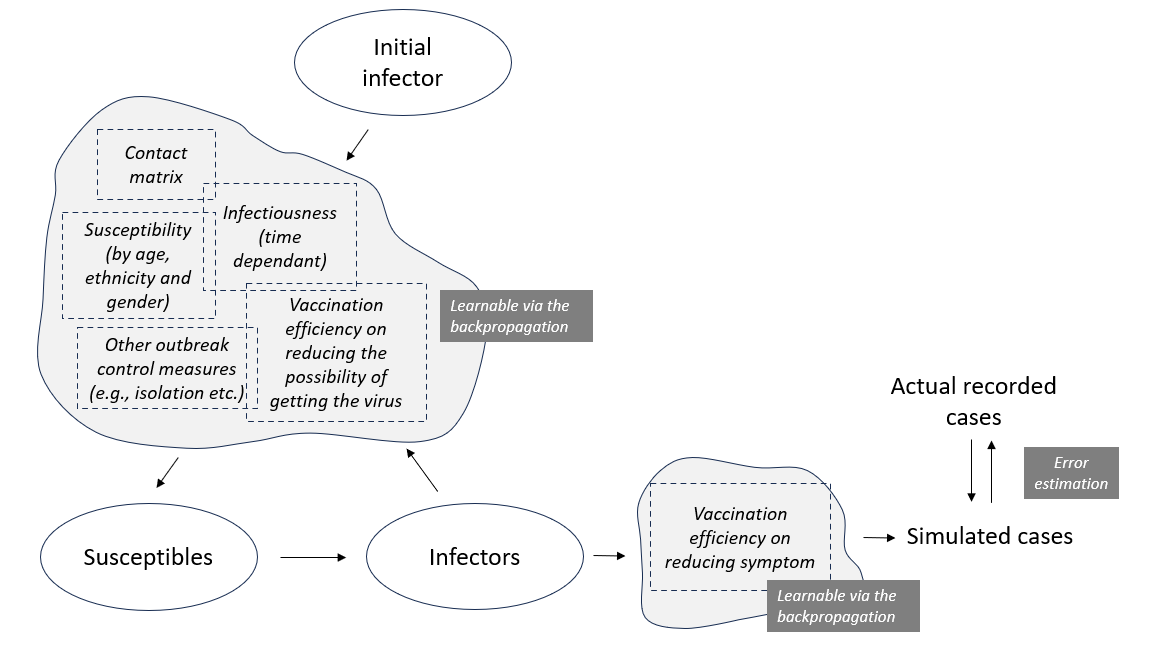
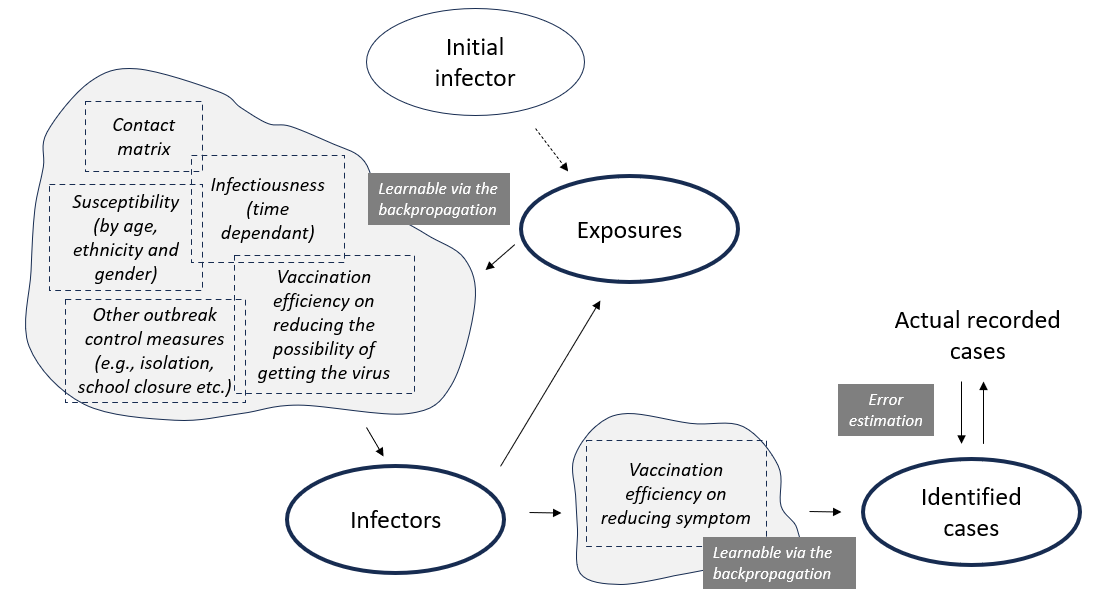
add school closure

diff --git a/model/abm.py b/model/abm.py
@@ -286,6 +286,7 @@ class GradABM:
         total_timesteps,
         debug: bool = False,
         save_records: bool = False,
+        print_step_info: bool = False,
     ):
         if t == 0:
             self.get_params(param_info, param_t)
@@ -329,72 +330,18 @@ class GradABM:
             t,
         )
 
-        """
-        if 165400 in self.agents_area[death_indices]:
-            import numpy
-
-            agent_loc = numpy.where(
-                numpy.array(self.agents_area[death_indices].tolist()) == 165400
-            )[0][0]
+        if print_step_info:
             print(
-                self.agents_ethnicity[death_indices[agent_loc]],
-                self.agents_ages[death_indices[agent_loc]],
+                t,
+                f"exposed: {self.current_stages.tolist().count(1.0)} |",
+                f"infected: {self.current_stages.tolist().count(2.0)} |",
+                f"newly exposed: {int(newly_exposed_today.sum().item())} |",
+                f"potential newly exposed: {int(potentially_exposed_today.sum().item())} |",
+                # f"infection_ratio_distribution_percentage: {infection_ratio_distribution_percentage}",
+                f"target: {int(target)}",
             )
+            # print(f" - Memory: {round(torch.cuda.memory_allocated(0) / (1024**3), 3) } Gb")
 
-        print(
-            t,
-            "165400: ",
-            165400 in self.agents_area[death_indices],
-            "147200: ",
-            147200 in self.agents_area[death_indices],
-        )
-        """
-
-        print(
-            t,
-            f"exposed: {self.current_stages.tolist().count(1.0)} |",
-            f"infected: {self.current_stages.tolist().count(2.0)} |",
-            f"newly exposed: {int(newly_exposed_today.sum().item())} |",
-            f"potential newly exposed: {int(potentially_exposed_today.sum().item())} |",
-            # f"infection_ratio_distribution_percentage: {infection_ratio_distribution_percentage}",
-            f"target: {int(target)}",
-        )
-
-        """
-        x = self.current_stages.cpu().detach().numpy()
-        from collections import Counter
-
-        import numpy as np
-
-        x_index = np.where(x == 2.0)[0]
-        age_distribution_percentage = {
-            value: count / len(self.agents_ages[x_index]) * 100
-            for value, count in Counter(self.agents_ages[x_index].tolist()).items()
-        }
-        age_distribution_percentage = {
-            key: round(value, 2) for key, value in sorted(age_distribution_percentage.items())
-        }
-        ethnicity_distribution_percentage = {
-            value: count / len(self.agents_ethnicity[x_index]) * 100
-            for value, count in Counter(self.agents_ethnicity[x_index].tolist()).items()
-        }
-        ethnicity_distribution_percentage = {
-            key: round(value, 2)
-            for key, value in sorted(ethnicity_distribution_percentage.items())
-        }
-        print(f"    ages: {age_distribution_percentage}")
-        print(f"    ethnicity: {ethnicity_distribution_percentage}")
-
-        counter = Counter(self.all_edgelist[0, :].tolist())
-        # x_id = self.agents_id[x_index]
-        # yy = self.all_edgelist[0, :].tolist()
-        occurrences = {}
-        for value in x_index:
-            occurrences[value] = counter[value]
-        values = occurrences.values()
-        print(f"    Mean value: {sum(list(values)) / len(values)}")
-        """
-        # print(t, target)
         stage_records = None
         if save_records:
             stage_records = shallow_copy(self.current_stages.tolist())
@@ -403,10 +350,6 @@ class GradABM:
             self.print_debug_info(
                 self.current_stages, self.agents_next_stage_times, newly_exposed_today, target, t
             )
-
-        # get next stages without updating yet the current_stages
-        if t == 3:
-            x = 1
 
         next_stages = self.DPM.update_current_stage(
             newly_exposed_today,
@@ -477,6 +420,7 @@ def forward_abm(param_values_all, param_info, abm, training_num_steps, save_reco
             training_num_steps,
             debug=False,
             save_records=save_records,
+            print_step_info=True,
         )
         pred_t = pred_t.type(torch.float64)
         predictions.append(pred_t.to(DEVICE))

diff --git a/model/infection_network.py b/model/infection_network.py
@@ -1,6 +1,10 @@
 from logging import getLogger
 from random import uniform as random_uniform
 
+from numpy import intersect1d as numpy_intersect1d
+from numpy import isin as numpy_isin
+from numpy import ones as numpy_ones
+from numpy import where as numpy_where
 from torch import gather as torch_gather
 from torch import manual_seed as torch_seed
 from torch import nonzero as torch_nonzero
@@ -10,10 +14,36 @@ from torch import tensor as torch_tensor
 from torch import zeros_like as torch_zeros_like
 from torch_geometric.nn import MessagePassing
 
+from input import LOC_INDEX
 from model import DEVICE, TORCH_SEED_NUM
 from utils.utils import create_random_seed
 
 logger = getLogger()
+
+
+def school_closure(infected_idx, edge_attr, school_closure_cfg):
+    school_closure_sf = numpy_ones(len(infected_idx))
+
+    if not school_closure_cfg["enable"]:
+        return torch_tensor(school_closure_sf).to(DEVICE)
+
+    infected_idx_index = numpy_where(infected_idx.cpu().detach().numpy() == True)[0]
+
+    if len(infected_idx_index) > 0:
+        school_index = numpy_where(edge_attr[0, :].cpu().detach().numpy() == LOC_INDEX["school"])[
+            0
+        ]
+
+        overlap_index = numpy_intersect1d(infected_idx_index, school_index)
+        schools_to_shutdown = edge_attr[2, :][overlap_index].unique().cpu().detach()
+
+        potential_indices = numpy_where(
+            numpy_isin(edge_attr[2].cpu().detach().numpy(), schools_to_shutdown)
+        )[0]
+        schools_to_shutdown_indices = numpy_intersect1d(school_index, potential_indices)
+        school_closure_sf[schools_to_shutdown_indices] *= school_closure_cfg["scaling_factor"]
+
+    return torch_tensor(school_closure_sf).to(DEVICE)
 
 
 def infected_case_isolation(
@@ -136,6 +166,9 @@ def lam(
         t,
     )
 
+    # Shutdown school
+    school_closure_sf = school_closure(infected_idx, edge_attr, outbreak_ctl_cfg["school_closure"])
+
     edge_network_numbers = edge_attr[
         0, :
     ]  # to account for the fact that mean interactions start at 4th position of x
@@ -146,7 +179,9 @@ def lam(
     else:
         R = 1.0
 
-    res = R * S_A_s * A_s_i * B_n * integrals * isolated_sf / I_bar  # Edge attribute 1 is B_n
+    res = (
+        R * S_A_s * A_s_i * B_n * integrals * isolated_sf * school_closure_sf / I_bar
+    )  # Edge attribute 1 is B_n
 
     # print(t, integrals[infected_idx].sum(), res.sum())
 

diff --git a/model/inputs.py b/model/inputs.py
@@ -129,7 +129,10 @@ def agent_interaction_wrapper(
 
 
 def create_interactions(
-    interaction_cfg: dict, interaction_graph_path: str, num_agents: int
+    interaction_cfg: dict,
+    interaction_graph_path: str,
+    num_agents: int,
+    interaction_ratio: float,
 ) -> dict:
     """Obtain interaction networks
 
@@ -183,6 +186,8 @@ def create_interactions(
     if interaction_graph_path.endswith("parquet"):
         create_bidirection = False
         edges_mean_interaction_cfg = pandas_read_parquet(interaction_graph_path)
+
+    edges_mean_interaction_cfg = edges_mean_interaction_cfg.sample(frac=interaction_ratio)
 
     counts_df = edges_mean_interaction_cfg.groupby("id_x")["id_y"].nunique().reset_index()
     counts_df.columns = ["id_x", "count_of_id_y"]
@@ -243,23 +248,25 @@ def init_interaction_graph(
             (random_network_edgelist_forward, random_network_edgelist_backward)
         )
     else:
-        random_network_edge_all = torch_tensor(interaction_graph_cfg[:, 0:3]).t().long()
+        random_network_edge_all = torch_tensor(interaction_graph_cfg[:, 0:4]).t().long()
 
     random_network_edgelist = random_network_edge_all[0:2, :]
 
     random_network_edgeattr_type = random_network_edge_all[2, :]
 
+    random_network_edgeattr_venue = random_network_edge_all[3, :]
+
     random_network_edgeattr_B_n = [
         agents_mean_interactions_bn[key] for key in random_network_edgeattr_type.tolist()
     ]
 
-    random_network_edgeattr_B_n = torch_tensor(random_network_edgeattr_B_n)
-    # random_network_edgeattr_B_n = (
-    #    torch_ones(random_network_edgelist.shape[1]).float()
-    #    * agents_mean_interactions_bn["school"]
-    # )
     random_network_edgeattr = torch_vstack(
-        (random_network_edgeattr_type, random_network_edgeattr_B_n)
+        (
+            random_network_edgeattr_type,
+            torch_tensor(random_network_edgeattr_B_n),
+            torch_tensor(random_network_edgeattr_venue),
+            # random_network_edgeattr_venue,
+        )
     )
 
     all_edgelist = torch_hstack((random_network_edgelist,))

diff --git a/input/create_inputs.py b/input/create_inputs.py
@@ -161,7 +161,7 @@ def get_interactions(
         # interactions = interactions[mask]
 
         logger.info("   Selecting subset of columns ...")
-        interactions = interactions[["id_x", "id_y", "spec_x"]]
+        interactions = interactions[["id_x", "id_y", "spec_x", "group"]]
 
         logger.info("   Removing hospitals ...")
         interactions = interactions[interactions["spec_x"] != "hospital"]
@@ -174,14 +174,15 @@ def get_interactions(
         for proc_id_name in ["id_x", "id_y"]:
             merged_df = interactions.merge(agents, left_on=proc_id_name, right_on="id")
             if proc_id_name == "id_x":
-                columns_to_keep = ["id_y", "spec_x", "row_number"]
+                columns_to_keep = ["id_y", "spec_x", "row_number", "group"]
             else:
-                columns_to_keep = ["id_x", "spec_x", "row_number"]
+                columns_to_keep = ["id_x", "spec_x", "row_number", "group"]
 
             interactions = merged_df[columns_to_keep]
             interactions = interactions.rename(columns={"row_number": proc_id_name})
 
-        interactions = interactions.reindex(columns=["id_x", "id_y", "spec_x"])
+        interactions = interactions.reindex(columns=["id_x", "id_y", "spec_x", "group"])
+        interactions["group"] = interactions["group"].str.extract(r"_(\d+)")
 
         logger.info(f"   Total interactions: {len(interactions)} ...")
 

diff --git a/etc/run_wrapper.py b/etc/run_wrapper.py
@@ -1,4 +1,4 @@
-from os.path import join
+from os.path import exists, join
 from shutil import rmtree
 
 from cli.cli_input import main as input_main
@@ -21,15 +21,16 @@ model_cfg_path = "data/measles/base/gradam_exp_vac1.yml"
 vis_cfg_path = "data/measles/base/vis_exp_vac1.yml"
 prd_job_name = "base_exp"
 
-run_input_main = True
+run_input_main = False
 run_model_main = True
 run_predict_main = True
 run_vis_main = True
-remove_all_old_runs = True
+remove_all_old_runs = False
 
 
 if remove_all_old_runs:
-    rmtree(workdir)
+    if exists(workdir):
+        rmtree(workdir)
 
 if run_input_main:
     print(f"Creating input data ...")

diff --git a/model/prep.py b/model/prep.py
@@ -18,6 +18,7 @@ def prep_model_inputs(
     target_data_path: str,
     interaction_cfg: str,
     target_cfg: dict,
+    interaction_ratio_cfg: float,
 ) -> dict:
     print("Step 1: Creating training background data ...")
     target_data = train_data_wrapper(target_data_path, target_cfg)
@@ -27,7 +28,7 @@ def prep_model_inputs(
 
     print("Step 3: Creating interactions ...")
     all_interactions = create_interactions(
-        interaction_cfg, interaction_path, len(all_agents["id"].unique())
+        interaction_cfg, interaction_path, len(all_agents["id"].unique()), interaction_ratio_cfg
     )
 
     return {

diff --git a/cli/cli_train.py b/cli/cli_train.py
@@ -89,7 +89,12 @@ def main(workdir, exp, cfg, agents_data, interaction_data, target_data):
 
     logger.info("Getting model input ...")
     model_inputs = prep_model_inputs(
-        agents_data, interaction_data, target_data, cfg["interaction"], cfg["target"]
+        agents_data,
+        interaction_data,
+        target_data,
+        cfg["interaction"],
+        cfg["target"],
+        cfg["interaction_ratio"],
     )
 
     logger.info("Building ABM ...")

diff --git a/model/seirm_progression.py b/model/seirm_progression.py
@@ -218,6 +218,7 @@ class SEIRMProgression(DiseaseProgression):
 
         recovered_or_dead_today = (current_stages * after_infected_index) / STAGE_INDEX["infected"]
 
+        print(vaccine_efficiency_symptom)
         death_total_today = vaccine_efficiency_symptom * torch_sum(recovered_or_dead_today)
 
         death_indices = _randomly_assign_death_people(recovered_or_dead_today, death_total_today)

diff --git a/cli/cli_predict.py b/cli/cli_predict.py
@@ -148,6 +148,7 @@ def main(workdir, cfg, model_base_dir, proc_exp, model_id, ens_id):
         target_data,
         cfg["train"]["interaction"],
         cfg["train"]["target"],
+        cfg["train"]["interaction_ratio"],
     )
 
     logger.info("Building ABM ...")
